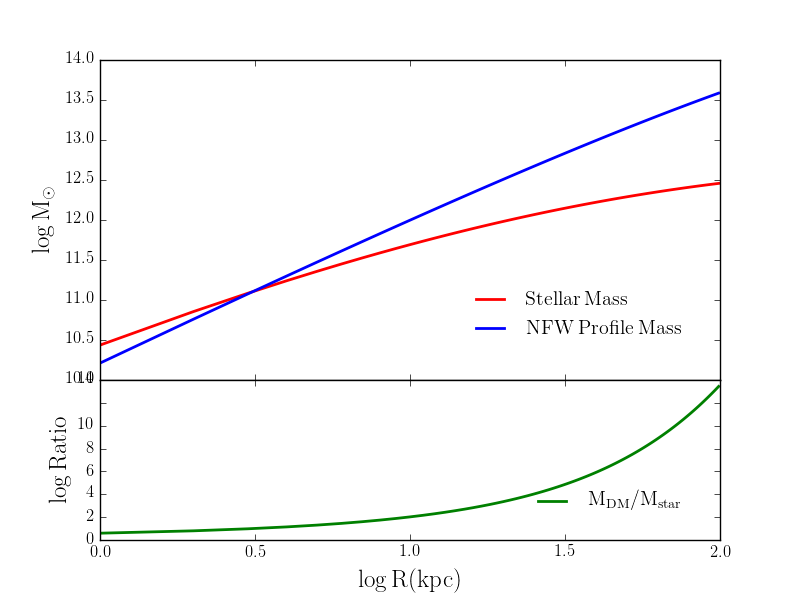
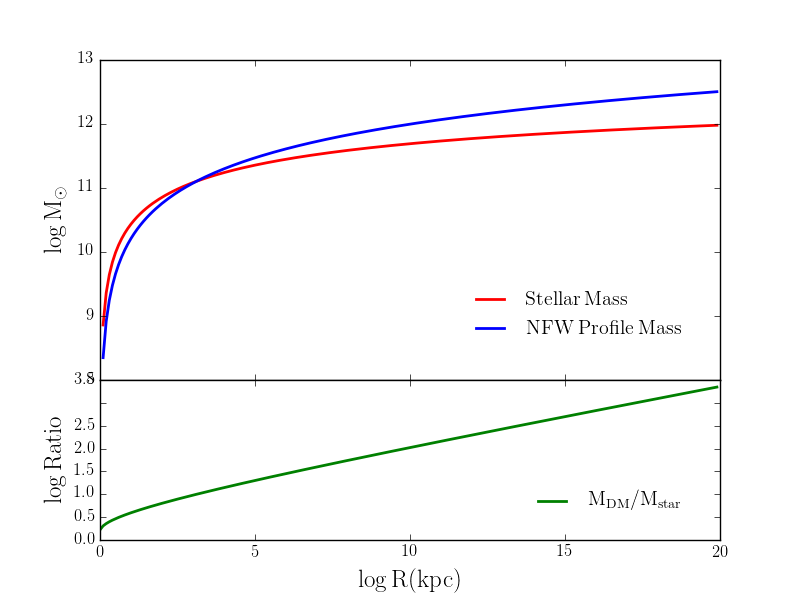
update

diff --git a/plots/DM_fraction.py b/plots/DM_fraction.py
@@ -16,7 +16,7 @@ R_e        = 73.7                                      # Half of the total light
 n_array    = [] 
 f_array    = []
 fractionDM = []
-R          = np.arange(0.0001, 100, 1.)
+R          = np.arange(0.0001, 20, 0.1)
 
 # MASS ENCLOSED BY LIGHT (DE VAUCOULEURS PROFILE)
 def surf_bright(r):
@@ -45,25 +45,27 @@ def N(val):
   return integrate.quad(g, 0.01, val)[0]
       
 for i in range(len(R)):
-   f_array.append(np.log10(F(R[i])))
-   n_array.append(np.log10(N(R[i])))
-   fractionDM.append( (10**(n_array[i])/10**(f_array[i])) )  
-
+#   f_array.append(np.log10(F(R[i])))
+#   n_array.append(np.log10(N(R[i])))
+   f_array.append((F(R[i])))
+   n_array.append((N(R[i])))
+#   fractionDM.append( (10**(n_array[i])/10**(f_array[i])) )
+   fractionDM.append( ((n_array[i])/(f_array[i])) )  
+  
 fig = plt.figure()
 gs = gridspec.GridSpec(2, 1, height_ratios=[2, 1]) 
 
 # The Fisrt Subplot
 ax0 = plt.subplot(gs[0])
-#line0, = ax0.plot(np.log10(R), f_array, color='r')
-line0, = ax0.plot(np.log10(R), f_array, '-', c = 'r', label = r'$\mathrm{Stellar\:Mass}$', lw = 2)
-line0, = ax0.plot(np.log10(R), n_array, '-', c = 'b', label = r'$\mathrm{NFW\:Profile\:Mass}$', lw = 2)
+line0, = ax0.plot((R), np.log10(f_array), '-', c = 'r', label = r'$\mathrm{Stellar\:Mass}$', lw = 2)
+line0, = ax0.plot((R), np.log10(n_array), '-', c = 'b', label = r'$\mathrm{NFW\:Profile\:Mass}$', lw = 2)
 plt.ylabel(r'$\mathrm{\log M_{\odot}}$',fontsize=18)
 plt.legend(frameon=False,bbox_to_anchor=(0.95, 0.3), loc=1, borderaxespad=0.)
 
 #The Second Subplot
 # shared axis X
 ax1 = plt.subplot(gs[1], sharex = ax0)
-line1, = ax1.plot(np.log10(R), (fractionDM), '-', c = 'g', label = r'$\mathrm{M_{DM}/M_{star}}$', lw = 2)
+line1, = ax1.plot((R), (fractionDM), '-', c = 'g', label = r'$\mathrm{M_{DM}/M_{star}}$', lw = 2)
 plt.xlabel(r'$\log \mathrm{R(kpc)}$',fontsize=18)
 plt.ylabel(r'$\log \mathrm{Ratio}$',fontsize=18)
 plt.legend(frameon=False,bbox_to_anchor=(0.95, 0.35), loc=1, borderaxespad=0.)
